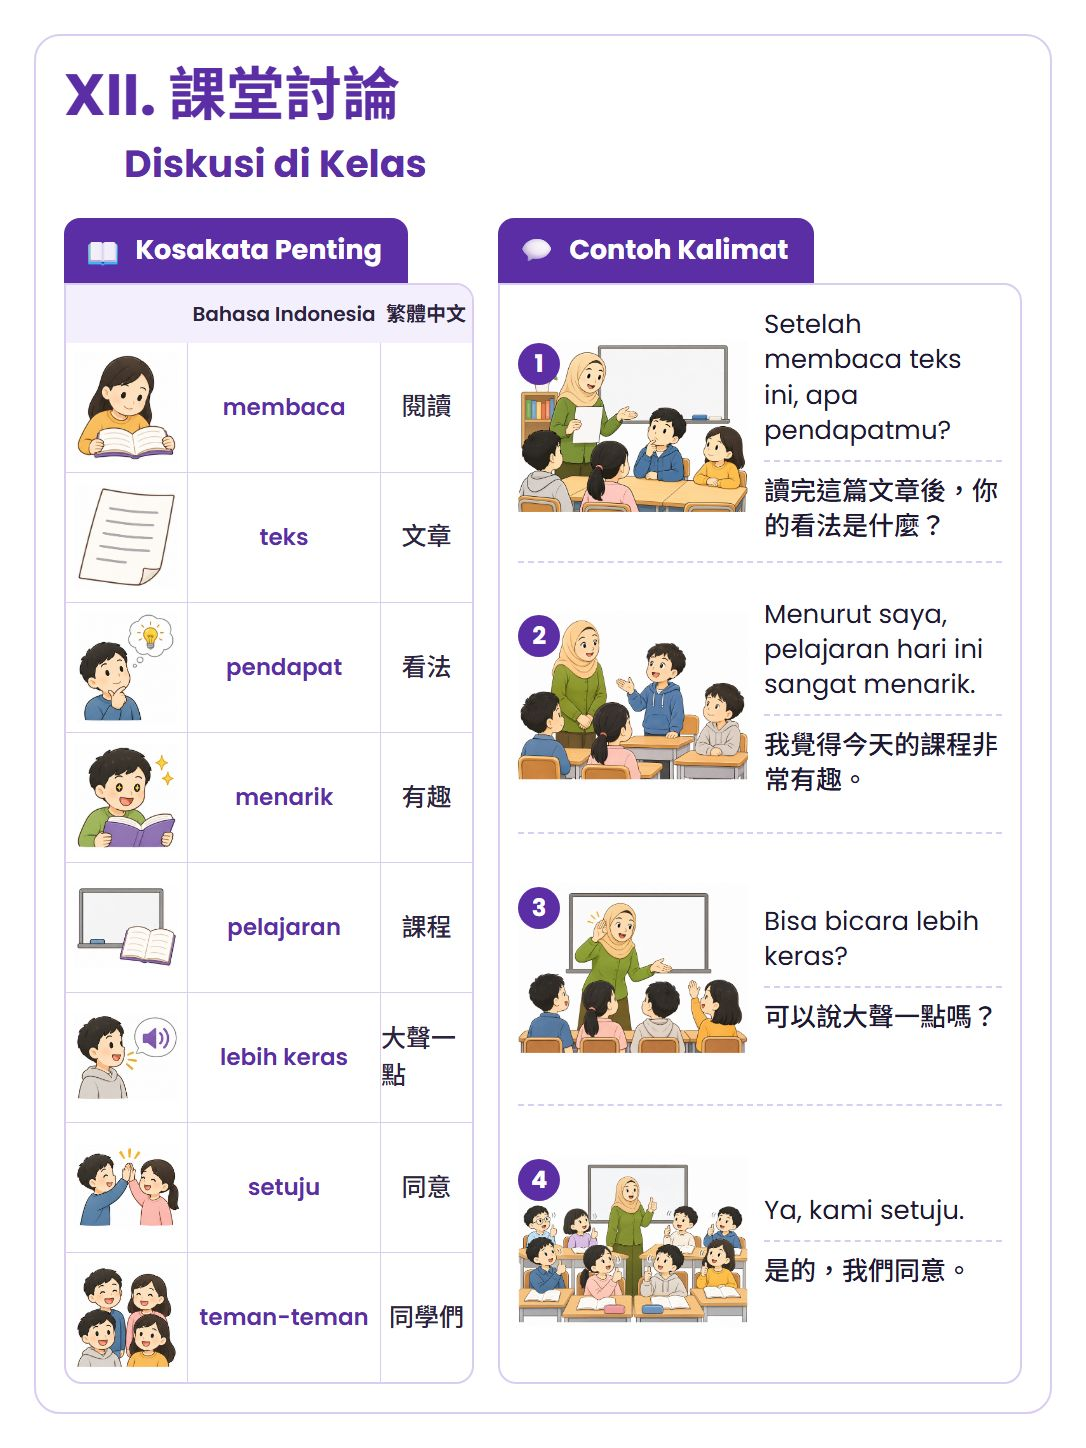
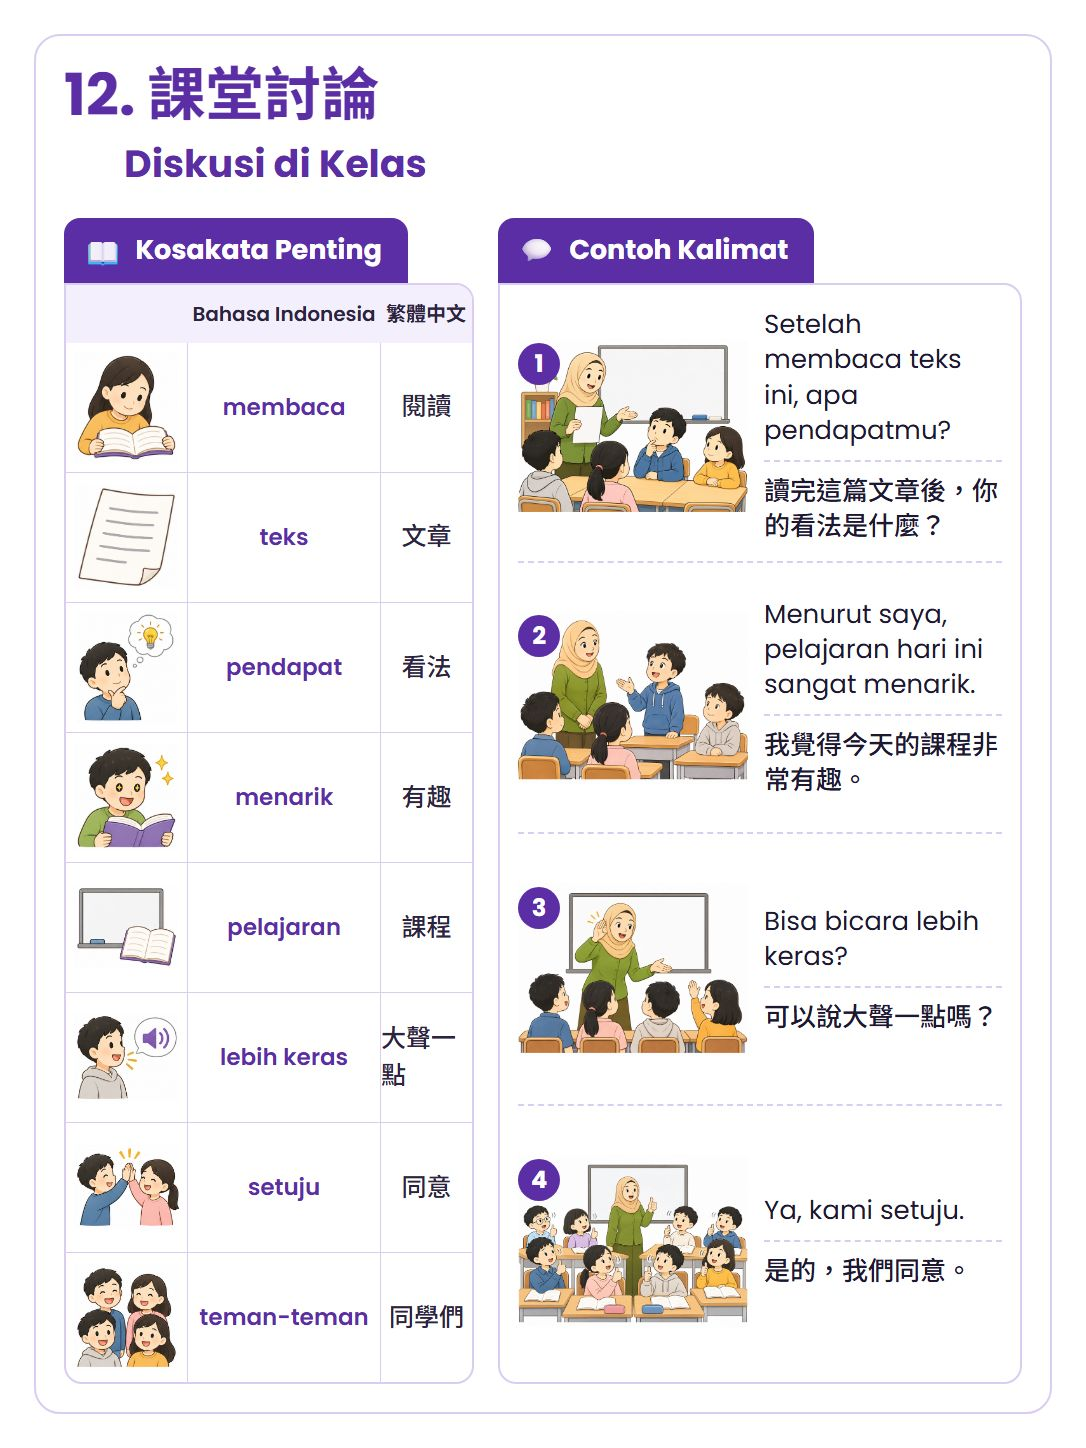
Number learning materials 1-18 instead of Roman numerals

Changed region(s): [[0.0608, 0.0311, 0.3646, 0.0932]]

diff --git a/data/learningMaterials.ts b/data/learningMaterials.ts
@@ -3,7 +3,7 @@ import { LearningMaterial } from "@/types/learningMaterial";
 export const LEARNING_MATERIALS: LearningMaterial[] = [
   {
     id: "bagian-1",
-    title: "Bagian I",
+    title: "Bagian 1",
     subtitle: "Pengaturan Peralatan Kelas",
     imageKey: "learningMaterialBagian1",
     aspectRatio: 1024 / 1536,
@@ -44,7 +44,7 @@ export const LEARNING_MATERIALS: LearningMaterial[] = [
   },
   {
     id: "bagian-2",
-    title: "Bagian II",
+    title: "Bagian 2",
     subtitle: "Pengantar Aktivitas Sebelum Pelajaran",
     imageKey: "learningMaterialBagian2",
     aspectRatio: 1086 / 1448,
@@ -58,7 +58,7 @@ export const LEARNING_MATERIALS: LearningMaterial[] = [
   },
   {
     id: "bagian-3",
-    title: "Bagian III",
+    title: "Bagian 3",
     subtitle: "Salam dan Absensi",
     imageKey: "learningMaterialBagian3",
     aspectRatio: 1086 / 1448,
@@ -81,7 +81,7 @@ export const LEARNING_MATERIALS: LearningMaterial[] = [
   // Bagian IV–VI follow AI Teacher Part B, topics 1–3 (same comic dialogues).
   {
     id: "bagian-4",
-    title: "Bagian IV",
+    title: "Bagian 4",
     subtitle: "Bersiap Memulai Pelajaran",
     imageKey: "learningMaterialBagian4",
     aspectRatio: 1086 / 1448,
@@ -98,7 +98,7 @@ export const LEARNING_MATERIALS: LearningMaterial[] = [
   },
   {
     id: "bagian-5",
-    title: "Bagian V",
+    title: "Bagian 5",
     subtitle: "Menunjukkan Gambar dan Video",
     imageKey: "learningMaterialBagian5",
     aspectRatio: 1086 / 1448,
@@ -115,7 +115,7 @@ export const LEARNING_MATERIALS: LearningMaterial[] = [
   },
   {
     id: "bagian-6",
-    title: "Bagian VI",
+    title: "Bagian 6",
     subtitle: "Membuka Buku dan Halaman",
     imageKey: "learningMaterialBagian6",
     aspectRatio: 1086 / 1448,
@@ -130,7 +130,7 @@ export const LEARNING_MATERIALS: LearningMaterial[] = [
   },
   {
     id: "bagian-7",
-    title: "Bagian VII",
+    title: "Bagian 7",
     subtitle: "Bermain Dadu dan Kartu Kata",
     imageKey: "learningMaterialBagian7",
     aspectRatio: 1086 / 1448,
@@ -147,7 +147,7 @@ export const LEARNING_MATERIALS: LearningMaterial[] = [
   },
   {
     id: "bagian-8",
-    title: "Bagian VIII",
+    title: "Bagian 8",
     subtitle: "Memastikan Pemahaman",
     imageKey: "learningMaterialBagian8",
     aspectRatio: 1086 / 1448,
@@ -162,7 +162,7 @@ export const LEARNING_MATERIALS: LearningMaterial[] = [
   },
   {
     id: "bagian-9",
-    title: "Bagian IX",
+    title: "Bagian 9",
     subtitle: "Membagi Kelompok Belajar",
     imageKey: "learningMaterialBagian9",
     aspectRatio: 1086 / 1448,
@@ -179,7 +179,7 @@ export const LEARNING_MATERIALS: LearningMaterial[] = [
   },
   {
     id: "bagian-10",
-    title: "Bagian X",
+    title: "Bagian 10",
     subtitle: "Berkenalan di Kelas",
     imageKey: "learningMaterialBagian10",
     aspectRatio: 1086 / 1448,
@@ -196,7 +196,7 @@ export const LEARNING_MATERIALS: LearningMaterial[] = [
   },
   {
     id: "bagian-11",
-    title: "Bagian XI",
+    title: "Bagian 11",
     subtitle: "Menjawab Kosakata dan Mendapat Pujian",
     imageKey: "learningMaterialBagian11",
     aspectRatio: 1086 / 1448,
@@ -213,7 +213,7 @@ export const LEARNING_MATERIALS: LearningMaterial[] = [
   },
   {
     id: "bagian-12",
-    title: "Bagian XII",
+    title: "Bagian 12",
     subtitle: "Diskusi di Kelas",
     imageKey: "learningMaterialBagian12",
     aspectRatio: 1086 / 1448,
@@ -230,7 +230,7 @@ export const LEARNING_MATERIALS: LearningMaterial[] = [
   },
   {
     id: "bagian-13",
-    title: "Bagian XIII",
+    title: "Bagian 13",
     subtitle: "Menulis Tema dan Kosakata Penting",
     imageKey: "learningMaterialBagian13",
     aspectRatio: 1086 / 1448,
@@ -244,7 +244,7 @@ export const LEARNING_MATERIALS: LearningMaterial[] = [
   },
   {
     id: "bagian-14",
-    title: "Bagian XIV",
+    title: "Bagian 14",
     subtitle: "Menjelaskan Topik Keluarga",
     imageKey: "learningMaterialBagian14",
     aspectRatio: 1086 / 1448,
@@ -261,7 +261,7 @@ export const LEARNING_MATERIALS: LearningMaterial[] = [
   },
   {
     id: "bagian-15",
-    title: "Bagian XV",
+    title: "Bagian 15",
     subtitle: "Memberikan Tugas dan PR",
     imageKey: "learningMaterialBagian15",
     aspectRatio: 1086 / 1448,
@@ -278,7 +278,7 @@ export const LEARNING_MATERIALS: LearningMaterial[] = [
   },
   {
     id: "bagian-16",
-    title: "Bagian XVI",
+    title: "Bagian 16",
     subtitle: "Ungkapan Penutupan Kelas",
     imageKey: "learningMaterialBagian16",
     aspectRatio: 1086 / 1448,
@@ -293,7 +293,7 @@ export const LEARNING_MATERIALS: LearningMaterial[] = [
   },
   {
     id: "bagian-17",
-    title: "Bagian XVII",
+    title: "Bagian 17",
     subtitle: "Topik Pertemuan Berikutnya",
     imageKey: "learningMaterialBagian17",
     aspectRatio: 1086 / 1448,
@@ -308,7 +308,7 @@ export const LEARNING_MATERIALS: LearningMaterial[] = [
   },
   {
     id: "bagian-18",
-    title: "Bagian XVIII",
+    title: "Bagian 18",
     subtitle: "Refleksi Setelah Belajar",
     imageKey: "learningMaterialBagian18",
     aspectRatio: 1086 / 1448,

diff --git a/marketing-video/src/materials/materials.ts b/marketing-video/src/materials/materials.ts
@@ -8,7 +8,7 @@ export type MaterialSentence = { scene: string; id: string; zh: string };
 
 export type MaterialPage = {
   id: string;
-  numeral: string;
+  number: number;
   zhTitle: string;
   idTitle: string;
   words: MaterialWord[];
@@ -18,7 +18,7 @@ export type MaterialPage = {
 export const MATERIAL_PAGES: MaterialPage[] = [
   {
     id: "bagian-4",
-    numeral: "IV",
+    number: 4,
     zhTitle: "準備開始上課",
     idTitle: "Bersiap Memulai Pelajaran",
     words: [
@@ -41,7 +41,7 @@ export const MATERIAL_PAGES: MaterialPage[] = [
   },
   {
     id: "bagian-5",
-    numeral: "V",
+    number: 5,
     zhTitle: "展示圖片與影片",
     idTitle: "Menunjukkan Gambar dan Video",
     words: [
@@ -62,7 +62,7 @@ export const MATERIAL_PAGES: MaterialPage[] = [
   },
   {
     id: "bagian-6",
-    numeral: "VI",
+    number: 6,
     zhTitle: "打開課本與翻頁",
     idTitle: "Membuka Buku dan Halaman",
     words: [
@@ -80,7 +80,7 @@ export const MATERIAL_PAGES: MaterialPage[] = [
   },
   {
     id: "bagian-7",
-    numeral: "VII",
+    number: 7,
     zhTitle: "玩骰子和字卡",
     idTitle: "Bermain Dadu dan Kartu Kata",
     words: [
@@ -103,7 +103,7 @@ export const MATERIAL_PAGES: MaterialPage[] = [
   },
   {
     id: "bagian-8",
-    numeral: "VIII",
+    number: 8,
     zhTitle: "確認理解",
     idTitle: "Memastikan Pemahaman",
     words: [
@@ -122,7 +122,7 @@ export const MATERIAL_PAGES: MaterialPage[] = [
   },
   {
     id: "bagian-9",
-    numeral: "IX",
+    number: 9,
     zhTitle: "分組學習",
     idTitle: "Membagi Kelompok Belajar",
     words: [
@@ -145,7 +145,7 @@ export const MATERIAL_PAGES: MaterialPage[] = [
   },
   {
     id: "bagian-10",
-    numeral: "X",
+    number: 10,
     zhTitle: "在課堂上自我介紹",
     idTitle: "Berkenalan di Kelas",
     words: [
@@ -167,7 +167,7 @@ export const MATERIAL_PAGES: MaterialPage[] = [
   },
   {
     id: "bagian-11",
-    numeral: "XI",
+    number: 11,
     zhTitle: "回答詞彙並獲得稱讚",
     idTitle: "Menjawab Kosakata dan Mendapat Pujian",
     words: [
@@ -189,7 +189,7 @@ export const MATERIAL_PAGES: MaterialPage[] = [
   },
   {
     id: "bagian-12",
-    numeral: "XII",
+    number: 12,
     zhTitle: "課堂討論",
     idTitle: "Diskusi di Kelas",
     words: [
@@ -211,7 +211,7 @@ export const MATERIAL_PAGES: MaterialPage[] = [
   },
   {
     id: "bagian-13",
-    numeral: "XIII",
+    number: 13,
     zhTitle: "寫下主題與重要詞彙",
     idTitle: "Menulis Tema dan Kosakata Penting",
     words: [
@@ -229,7 +229,7 @@ export const MATERIAL_PAGES: MaterialPage[] = [
   },
   {
     id: "bagian-14",
-    numeral: "XIV",
+    number: 14,
     zhTitle: "說明家庭主題",
     idTitle: "Menjelaskan Topik Keluarga",
     words: [
@@ -251,7 +251,7 @@ export const MATERIAL_PAGES: MaterialPage[] = [
   },
   {
     id: "bagian-15",
-    numeral: "XV",
+    number: 15,
     zhTitle: "交代作業",
     idTitle: "Memberikan Tugas dan PR",
     words: [
@@ -274,7 +274,7 @@ export const MATERIAL_PAGES: MaterialPage[] = [
   },
   {
     id: "bagian-16",
-    numeral: "XVI",
+    number: 16,
     zhTitle: "下課用語",
     idTitle: "Ungkapan Penutupan Kelas",
     words: [
@@ -293,7 +293,7 @@ export const MATERIAL_PAGES: MaterialPage[] = [
   },
   {
     id: "bagian-17",
-    numeral: "XVII",
+    number: 17,
     zhTitle: "下次上課的主題",
     idTitle: "Topik Pertemuan Berikutnya",
     words: [
@@ -312,7 +312,7 @@ export const MATERIAL_PAGES: MaterialPage[] = [
   },
   {
     id: "bagian-18",
-    numeral: "XVIII",
+    number: 18,
     zhTitle: "學習後的反思",
     idTitle: "Refleksi Setelah Belajar",
     words: [

diff --git a/marketing-video/src/materials/MaterialPageStill.tsx b/marketing-video/src/materials/MaterialPageStill.tsx
@@ -63,7 +63,7 @@ export const MaterialPageStill: React.FC<{ page: MaterialPage }> = ({
             lineHeight: 1.15,
           }}
         >
-          {page.numeral}. {page.zhTitle}
+          {page.number}. {page.zhTitle}
         </div>
         <div
           style={{
